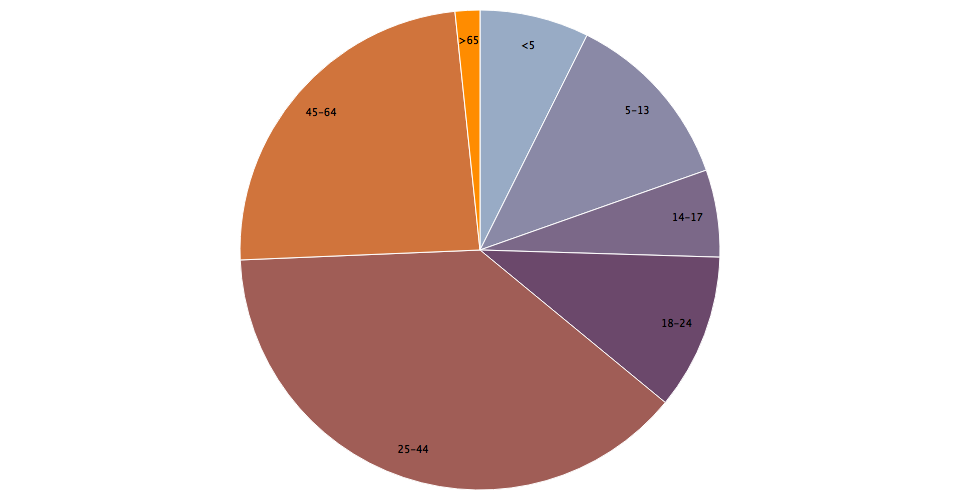
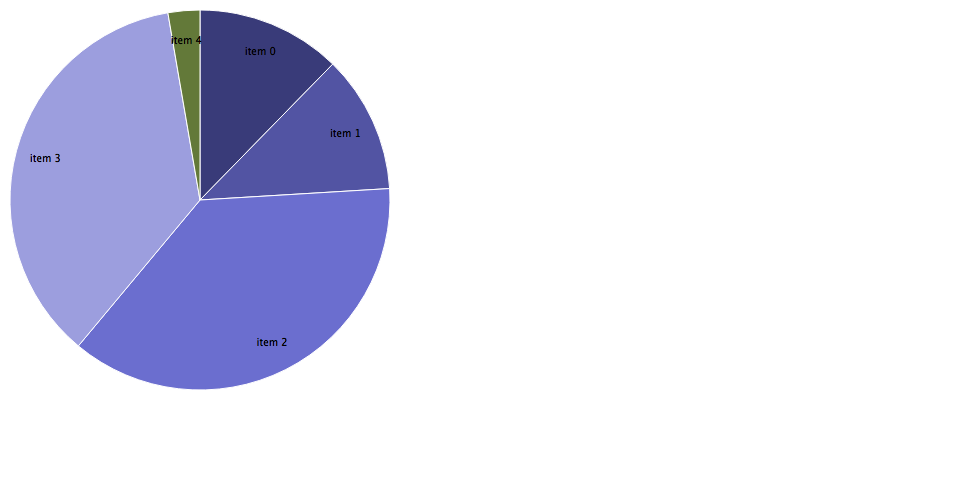
[refactor] refactor code and example; update gitignore

diff --git a/example/output.html b/example/output.html
@@ -1,7 +1,8 @@
 <html><head></head><body><div id="container">
-  <h2>Pie Chart</h2>
-  <div id="chart"><svg xmlns="http://www.w3.org/2000/svg" width="960" height="500"><defs><style type="text/css"><![CDATA[ 
- .arc text {font: 10px sans-serif; text-anchor: middle;}
- .arc path {stroke: #fff;}
- ]]></style></defs><g transform="translate( 480 , 250 )"><g class="arc"><path d="M1.469576158976824e-14,-240A240,240,0,0,1,107.0492887034484,-214.803281604555L0,0Z" style="fill: #98abc5;"></path><text transform="translate(48.113911736435526,-204.41392197553103)" dy=".35em">&lt;5</text></g><g class="arc"><path d="M107.0492887034484,-214.803281604555A240,240,0,0,1,226.32103905324743,-79.86731047092076L0,0Z" style="fill: #8a89a6;"></path><text transform="translate(157.34405840318342,-139.07856515371307)" dy=".35em">5-13</text></g><g class="arc"><path d="M226.32103905324743,-79.86731047092076A240,240,0,0,1,239.89217619670538,7.193316315084522L0,0Z" style="fill: #7b6888;"></path><text transform="translate(207.49417749449054,-32.34449421284646)" dy=".35em">14-17</text></g><g class="arc"><path d="M239.89217619670538,7.193316315084522A240,240,0,0,1,185.29089011249533,152.53617945038215L0,0Z" style="fill: #6b486b;"></path><text transform="translate(196.58564250968948,73.85177830663643)" dy=".35em">18-24</text></g><g class="arc"><path d="M185.29089011249533,152.53617945038215A240,240,0,0,1,-239.7935922865823,9.951537484044003L0,0Z" style="fill: #a05d56;"></path><text transform="translate(-66.78280177123042,199.0981099548274)" dy=".35em">25-44</text></g><g class="arc"><path d="M-239.7935922865823,9.951537484044003A240,240,0,0,1,-25.080788568417415,-238.68588991556737L0,0Z" style="fill: #d0743c;"></path><text transform="translate(-158.9390039857519,-137.25302551134214)" dy=".35em">45-64</text></g><g class="arc"><path d="M-25.080788568417415,-238.68588991556737A240,240,0,0,1,-2.5725010549733476e-13,-240L0,0Z" style="fill: #ff8c00;"></path><text transform="translate(-10.987896250295181,-209.712341401246)" dy=".35em">&gt;65</text></g></g></svg></div>
-</div></body></html>
+      <h2>Pie Chart</h2>
+      <div id="chart"><svg xmlns="http://www.w3.org/2000/svg" width="960" height="500"><defs><style type="text/css"><![CDATA[ 
+    .arc text {font: 10px sans-serif; text-anchor: middle;}
+    .arc path {stroke: #fff;}
+   ]]></style></defs><g transform="translate( 200 , 200 )"><g class="arc"><path d="M1.1634144591899855e-14,-190A190,190,0,0,1,132.76869047981882,-135.91348287890375L0,0Z" style="fill: #393b79;"></path><text transform="translate(60.363260835415275,-148.1765053620702)" dy=".35em">item 0</text></g><g class="arc"><path d="M132.76869047981882,-135.91348287890375A190,190,0,0,1,189.65389868050224,-11.462927867076063L0,0Z" style="fill: #5254a3;"></path><text transform="translate(145.51877838280103,-66.51530002922063)" dy=".35em">item 1</text></g><g class="arc"><path d="M189.65389868050224,-11.462927867076063A190,190,0,0,1,-121.65081356917744,145.94889365102168L0,0Z" style="fill: #6b6ecf;"></path><text transform="translate(72.19904912725167,142.78409331967165)" dy=".35em">item 2</text></g><g class="arc"><path d="M-121.65081356917744,145.94889365102168A190,190,0,0,1,-32.147568047028756,-187.26060415544336L0,0Z" style="fill: #9c9ede;"></path><text transform="translate(-154.5225937404604,-41.50624078040114)" dy=".35em">item 3</text></g><g class="arc"><path d="M-32.147568047028756,-187.26060415544336A190,190,0,0,1,-3.490243377569956e-14,-190L0,0Z" style="fill: #637939;"></path><text transform="translate(-13.584872935950507,-159.42224194670604)" dy=".35em">item 4</text></g></g></svg></div>
+    </div>
+  </body></html>

diff --git a/index.js b/index.js
@@ -1,71 +1,69 @@
 const D3Node = require('d3-node');
 
-const defaultContainer = `
-<div id="container">
-  <h2>Pie Chart</h2>
-  <div id="chart"></div>
-</div>`;
-
-const defaultStyle = `
- .arc text {font: 10px sans-serif; text-anchor: middle;}
- .arc path {stroke: #fff;}
-`;
-
-function pieChart (data, selector = '#chart', container = defaultContainer, style = defaultStyle/*, options*/) {
+function pie ({
+  data,
+  selector: _selector = '#chart',
+  container: _container = `
+    <div id="container">
+      <h2>Pie Chart</h2>
+      <div id="chart"></div>
+    </div>
+  `,
+  style: _style = '',
+  width: _width = 960,
+  height: _height = 500,
+  radius: _radius = 200
+} = {}) {
+  const _svgStyles = `
+    .arc text {font: 10px sans-serif; text-anchor: middle;}
+    .arc path {stroke: #fff;}
+  `;
 
   const d3n = new D3Node({
-    selector: selector,
-    svgStyles: style,
-    container: container
+    selector: _selector,
+    styles: _svgStyles + _style,
+    container: _container
   });
 
   const d3 = d3n.d3;
 
-  // adapted from: https://bl.ocks.org/mbostock/3887235
-  ///-- start D3 code
+  const radius = _radius;
 
-  const width = 960;
-  const height = 500;
-  const radius = Math.min(width, height) / 2;
-
-  const color = d3.scaleOrdinal()
-    .range(['#98abc5', '#8a89a6', '#7b6888', '#6b486b', '#a05d56', '#d0743c', '#ff8c00']);
+  const color = d3.scaleOrdinal(d3.schemeCategory20b);
 
   const arc = d3.arc()
-    .outerRadius(radius - 10)
-    .innerRadius(0);
+        .outerRadius(radius - 10)
+        .innerRadius(0);
 
   const labelArc = d3.arc()
-    .outerRadius(radius - 40)
-    .innerRadius(radius - 40);
+        .outerRadius(radius - 40)
+        .innerRadius(radius - 40);
 
   const pie = d3.pie()
-    .sort(null)
-    .value((d) => d.value);
+        .sort(null)
+        .value((d) => d.value);
 
   const svg = d3n.createSVG()
-    .attr('width', width)
-    .attr('height', height)
-    .append('g')
-    .attr('transform', `translate( ${width / 2} , ${height / 2} )`);
+        .attr('width', _width)
+        .attr('height', _height)
+        .append('g')
+        .attr('transform', `translate( ${_radius} , ${_radius} )`);
 
   const g = svg.selectAll('.arc')
-    .data(pie(data))
-    .enter().append('g')
-    .attr('class', 'arc');
+        .data(pie(data))
+        .enter().append('g')
+        .attr('class', 'arc');
 
   g.append('path')
     .attr('d', arc)
-    .style('fill', (d) => color(d.data.label));
+    .style('fill', (d) => color(d.data.key));
 
   g.append('text')
     .attr('transform', (d) => `translate(${labelArc.centroid(d)})`)
     .attr('dy', '.35em')
-    .text((d) => d.data.label);
-
-  /// -- end D3 code
+    .text((d) => d.data.key);
 
   return d3n;
 }
 
-module.exports = pieChart;
+module.exports = pie;

diff --git a/example/index.js b/example/index.js
@@ -1,10 +1,18 @@
 const output = require('d3node-output');
-const fs = require('fs');
-const d3 = require('d3-node')().d3;
 const d3nPie = require('../');
 
-const csvString = fs.readFileSync('data/data.csv').toString();
-var data = d3.csvParse(csvString);
+const gen = n => {
+  const data = [];
+
+  for (let i = 0; i < n; ++i) {
+    data.push({
+      key: `item ${i}`,
+      value: Math.max(10, Math.floor(Math.random() * 1000)),
+    });
+  }
+
+  return data;
+};
 
 // create output files
-output('./example/output', d3nPie(data));
+output('./example/output', d3nPie({ data: gen(5) }));
